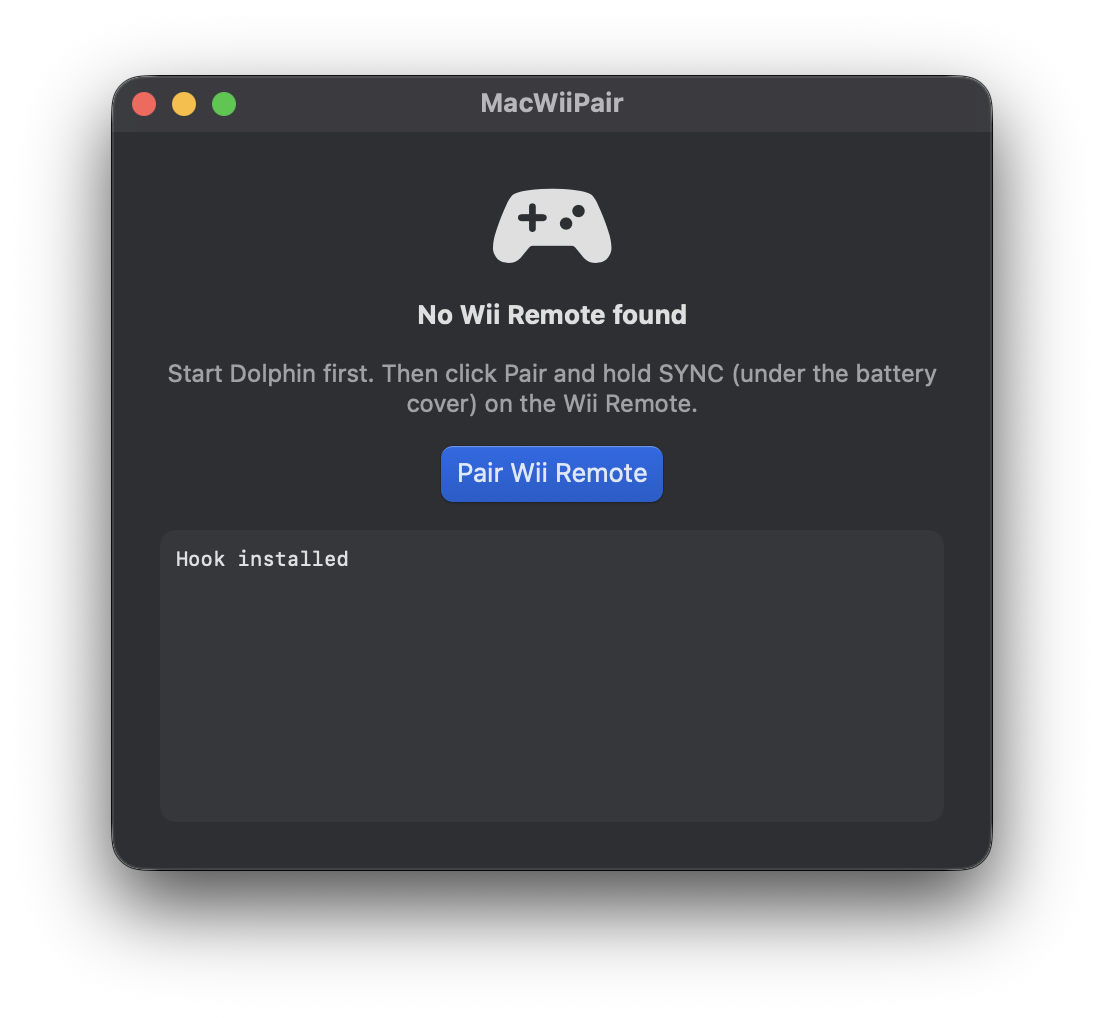
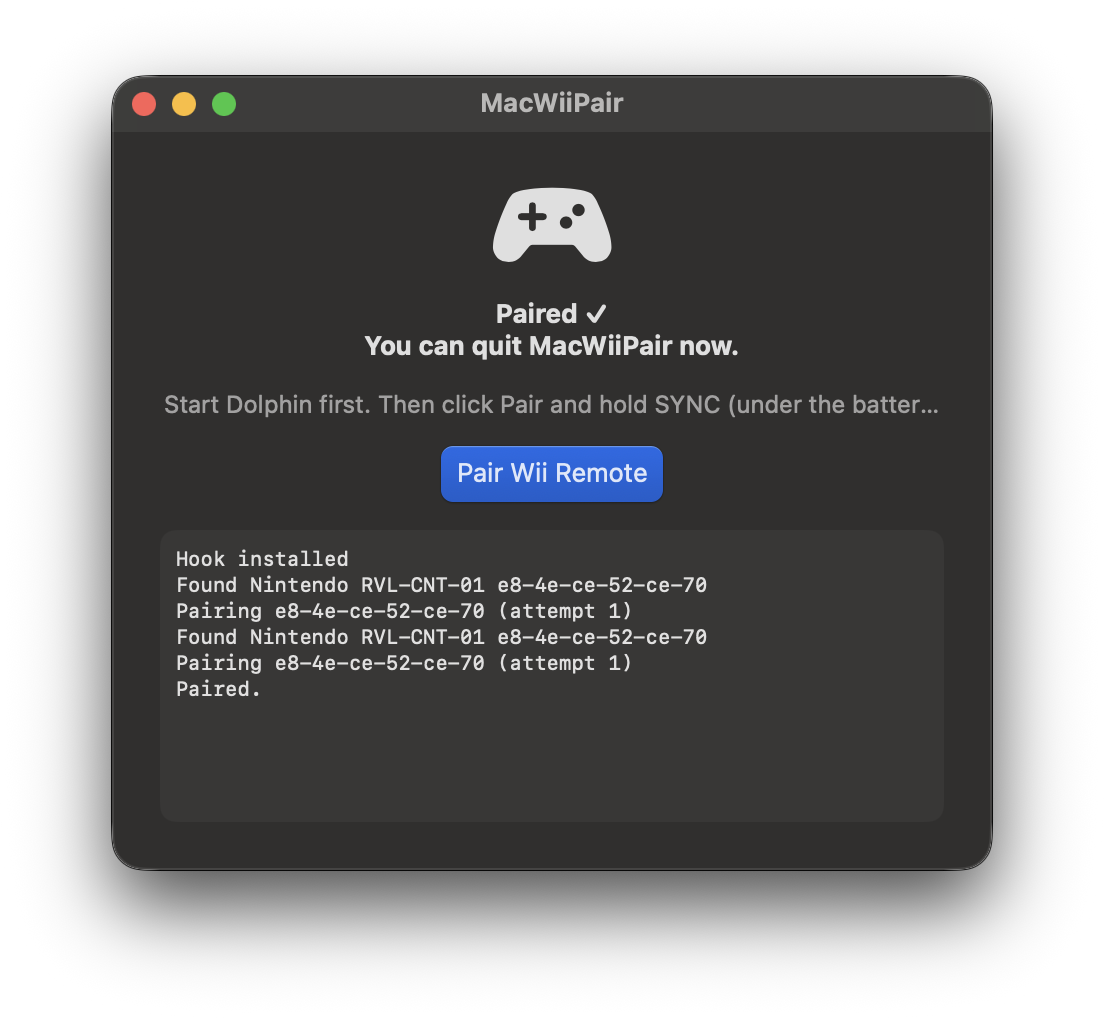
docs: rewrite README, add four-remote note and new screenshot

diff --git a/README.md b/README.md
@@ -1,44 +1,22 @@
 # MacWiiPair
 
-Pair a Wii Remote with your Mac and play with it in Dolphin on macOS 27.
+Pairs a Wii Remote with your Mac on macOS 27 so you can use it in Dolphin.
 
-![License](https://img.shields.io/badge/license-GPL--3.0--or--later-blue)
-![Platform](https://img.shields.io/badge/platform-macOS-lightgrey)
-![Swift](https://img.shields.io/badge/Swift-6-orange)
-[![Release](https://img.shields.io/github/v/release/aureliothuerch/MacWiiPair)](https://github.com/aureliothuerch/MacWiiPair/releases/latest)
-
-MacWiiPair is a small native app. It scans for a Wii Remote, starts the
-pairing, and leaves the controller ready for Dolphin. In testing, pairing
-finished about 3 seconds after the search found the remote, and the PIN
-exchange itself took 150 ms. The app is signed and notarized by Apple, builds
-from the command line, and needs no kernel extension.
-
-**[Download the latest release](https://github.com/aureliothuerch/MacWiiPair/releases/latest)**
+[Download the latest release](https://github.com/aureliothuerch/MacWiiPair/releases/latest)
 
 <p align="center"><img src="docs/screenshot.png" alt="The MacWiiPair window" width="480"></p>
 
 ## Why
 
-Older pairing tools break on macOS 27. IOBluetooth answers the Wii Remote's PIN
-request itself and never calls the app, so pairing times out. Users report
-errors such as `(os/kern) default set`. MacWiiPair is a new implementation
-written for the current system.
+The old pairing tools stopped working on macOS 27. The system never passes the Wii Remote's PIN request on to the app, so pairing just times out (people see `(os/kern) default set`). MacWiiPair answers that request itself.
 
 ## Install
 
-You need an Apple silicon Mac with macOS 27 (tested on 27.0.1), [Dolphin](https://dolphin-emu.org),
-and a Wii Remote (a genuine RVL-CNT-01 is tested).
+You need an Apple silicon Mac on macOS 27, [Dolphin](https://dolphin-emu.org) and a Wii Remote.
 
-### Download
+Download the DMG from the [latest release](https://github.com/aureliothuerch/MacWiiPair/releases/latest), drag MacWiiPair onto the Applications shortcut and open it. The app is signed and notarized. macOS may ask once whether you want to open it, click Open.
 
-1. Get `MacWiiPair-<version>.dmg` from the
-   [latest release](https://github.com/aureliothuerch/MacWiiPair/releases/latest).
-2. Open the DMG and drag **MacWiiPair** onto the Applications shortcut.
-3. Open MacWiiPair. macOS asks you to confirm the first launch. Click **Open**.
-
-### Build from source
-
-You also need Xcode or the Command Line Tools.
+To build it yourself you need Xcode or the Command Line Tools:
 
 ```sh
 git clone https://github.com/aureliothuerch/MacWiiPair.git
@@ -49,82 +27,54 @@ open build/MacWiiPair.app
 
 ## Usage
 
-The order matters:
+Order matters here.
 
-1. **Start Dolphin** and leave it running.
-2. Open MacWiiPair.
-3. Click **Pair Wii Remote**.
-4. Hold the **SYNC** button under the battery cover until the remote connects.
-5. The window shows **Paired ✓**. You can quit MacWiiPair now.
-6. The Wii Remote appears in Dolphin's controller settings and stays paired.
+1. Start Dolphin and leave it running.
+2. Open MacWiiPair and click Pair Wii Remote.
+3. Hold SYNC (under the battery cover) until the window says Paired.
+4. Quit MacWiiPair. The remote shows up in Dolphin's controller settings.
 
-After the first pairing, Dolphin alone connects the remote. You need MacWiiPair
-again only after you remove the remote from Bluetooth settings.
+You can connect up to four Wii Remotes at the same time, the limit Dolphin sets. Repeat steps 2 and 3 for each remote.
+
+From then on Dolphin connects the remotes on its own. You only need MacWiiPair again if you remove the remote in the Bluetooth settings.
 
 ## Troubleshooting
 
-| Symptom | Fix |
-|---|---|
-| LEDs keep blinking, macOS lists the remote as connected | Normal. The LEDs blink until an application such as Dolphin takes over the connection. Start Dolphin. |
-| No Wii Remote found | Hold SYNC while the search runs. Press it again if the search ends first. |
-| No Bluetooth prompt, nothing happens | Allow Bluetooth for MacWiiPair in System Settings > Privacy & Security. |
-| Pairing fails | Open an issue and attach `~/Library/Logs/MacWiiPair.log`. |
+- The LEDs keep blinking and macOS lists the remote as connected: that is normal until a program like Dolphin takes over the connection. Start Dolphin.
+- "No Wii Remote found": hold SYNC while the search runs. If the search ended first, click Pair again and press SYNC again.
+- Nothing happens and there was no Bluetooth prompt: allow Bluetooth for MacWiiPair under System Settings > Privacy & Security.
+- Pairing fails: open an issue and attach `~/Library/Logs/MacWiiPair.log`.
 
 ## How it works
 
-- `IOBluetoothDeviceInquiry` finds devices named `Nintendo RVL-*`.
-- `IOBluetoothDevicePair` starts the pairing.
-- The PIN is the reversed Bluetooth address of the host (SYNC) or of the remote
-  (1 + 2), as WiiBrew documents. The app tries both.
-- `PairingHook` answers the system's PIN request itself, with pairing type 6 and
-  the PIN as a little-endian number. Without it, IOBluetooth passes the binary
-  PIN on as the key 0 and the remote rejects it.
+The app looks for devices named `Nintendo RVL-*` with an IOBluetooth inquiry and starts the pairing. The PIN is the reversed Bluetooth address of your Mac (SYNC button) or of the remote (1 + 2 buttons), as described on [WiiBrew](https://wiibrew.org/wiki/Wiimote). The app tries both.
 
-The hook uses private CoreBluetooth and IOBluetooth interfaces, which Apple does
-not document. A macOS update can break them.
+On macOS 27, IOBluetooth passes that binary PIN on as the key 0 and the remote rejects it. So a small hook (`PairingHook`) answers the system's PIN request first, with pairing type 6 and the PIN as a little-endian number.
+
+The hook uses private CoreBluetooth and IOBluetooth interfaces that Apple does not document. A macOS update can break it. I maintain the app and will fix it when that happens.
 
 ## Status
 
-Version 0.2.1. I maintain it and update it when a new macOS version breaks
-pairing.
-
-| macOS | Mac | Wii Remote | Result |
-|---|---|---|---|
-| 27.0.1 | Mac16,5 | RVL-CNT-01 | Pairs about 3 seconds after discovery, works in Dolphin |
-
-Known limitations:
-
-- Third-party remotes and the Balance Board are untested.
-- Other macOS versions are untested.
-
-Test reports on other setups help. Open an issue with the log file.
+Tested on macOS 27.0.1 (Mac16,5) with a genuine RVL-CNT-01. Third-party remotes, the Balance Board, other macOS versions and pairing several remotes in a row are untested. If you try one of those, a report with your log file helps.
 
 ## Development
 
 ```sh
-swift test                                  # unit tests
-./package.sh                                # build the release DMG
-# signed and notarized: SIGN_ID="Developer ID Application: ..." NOTARY_PROFILE=<profile> ./package.sh
-tools/make-icns.sh                          # rebuild the app icon
-swift tools/dump-classes.swift Pairing      # list Objective-C classes by name
+swift test                              # unit tests
+./package.sh                            # build the release DMG
+tools/make-icns.sh                      # rebuild the app icon
+swift tools/dump-classes.swift Pairing  # list Objective-C classes by name
 ```
 
-`dump-classes.swift` reads system frameworks through the public Objective-C
-runtime API.
+For a signed and notarized DMG set `SIGN_ID="Developer ID Application: ..."` and `NOTARY_PROFILE=<keychain profile>` before running `package.sh`.
 
 ## Contributing
 
-Pull requests are welcome. All contributions fall under GPL-3.0-or-later.
-MacWiiPair is an independent implementation, so please do not submit code copied
-from [dolphin-emu/WiimotePair](https://github.com/dolphin-emu/WiimotePair) or
-its forks.
+Pull requests are welcome and fall under GPL-3.0-or-later. MacWiiPair is an independent implementation, so please don't send code copied from [dolphin-emu/WiimotePair](https://github.com/dolphin-emu/WiimotePair) or its forks.
 
 ## Credits
 
-- [MaxfieldKassel/WiimotePair#1](https://github.com/MaxfieldKassel/WiimotePair/pull/1)
-  documented the macOS 27 root cause. MacWiiPair shares no code with it.
-- [WiiBrew](https://wiibrew.org/wiki/Wiimote) documents the PIN scheme.
-- [Dolphin](https://dolphin-emu.org) is the emulator this app serves.
+[MaxfieldKassel/WiimotePair#1](https://github.com/MaxfieldKassel/WiimotePair/pull/1) found the macOS 27 root cause. MacWiiPair shares no code with it. [WiiBrew](https://wiibrew.org/wiki/Wiimote) documents the PIN scheme.
 
 MacWiiPair is not affiliated with Nintendo or the Dolphin project.
 
